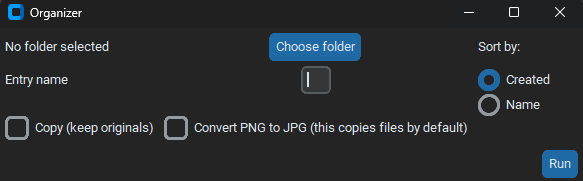
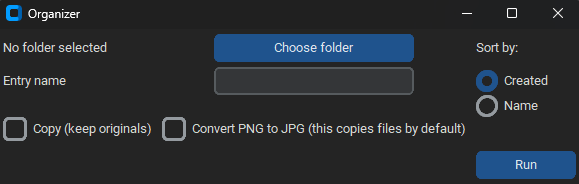
Add proper README

diff --git a/README.md b/README.md
@@ -1,4 +1,33 @@
-# file-organizer
-Simple tool for renaming and organizing files
+# File Organizer
 
-Being worked on right now, but you can look inside if you want to :)
+A simple Python GUI tool for renaming, copying, and converting image files in bulk.
+
+## Features
+
+- Choose a source folder containing your files
+- Rename files with a custom prefix and sequential numbering (e.g. `Bob1.png`, `Bob2.png`, ...)
+- Sort files by creation date or by original filename before renaming
+- Choose to either rename originals in place, or create renamed copies (keeping originals untouched)
+- Optionally convert PNG images to JPG (strips metadata, e.g. AI generation prompts)
+
+## Download
+
+Download the latest `.exe` from the [Releases page](https://github.com/luboskollar/file-organizer/releases/tag/v1.0) - no Python installation required.
+
+## Usage
+
+1. Click **Choose folder** and select the folder with your files
+2. Enter a name prefix in **Entry name**
+3. Choose a sort order (**Created** or **Name**)
+4. Optionally check **Copy** (keeps originals) and/or **Convert PNG to JPG**
+5. Click **Run**
+
+## Screenshot
+
+![Organizer GUI](example.png)
+
+## Built with
+
+- Python
+- customtkinter (GUI)
+- Pillow (image processing)